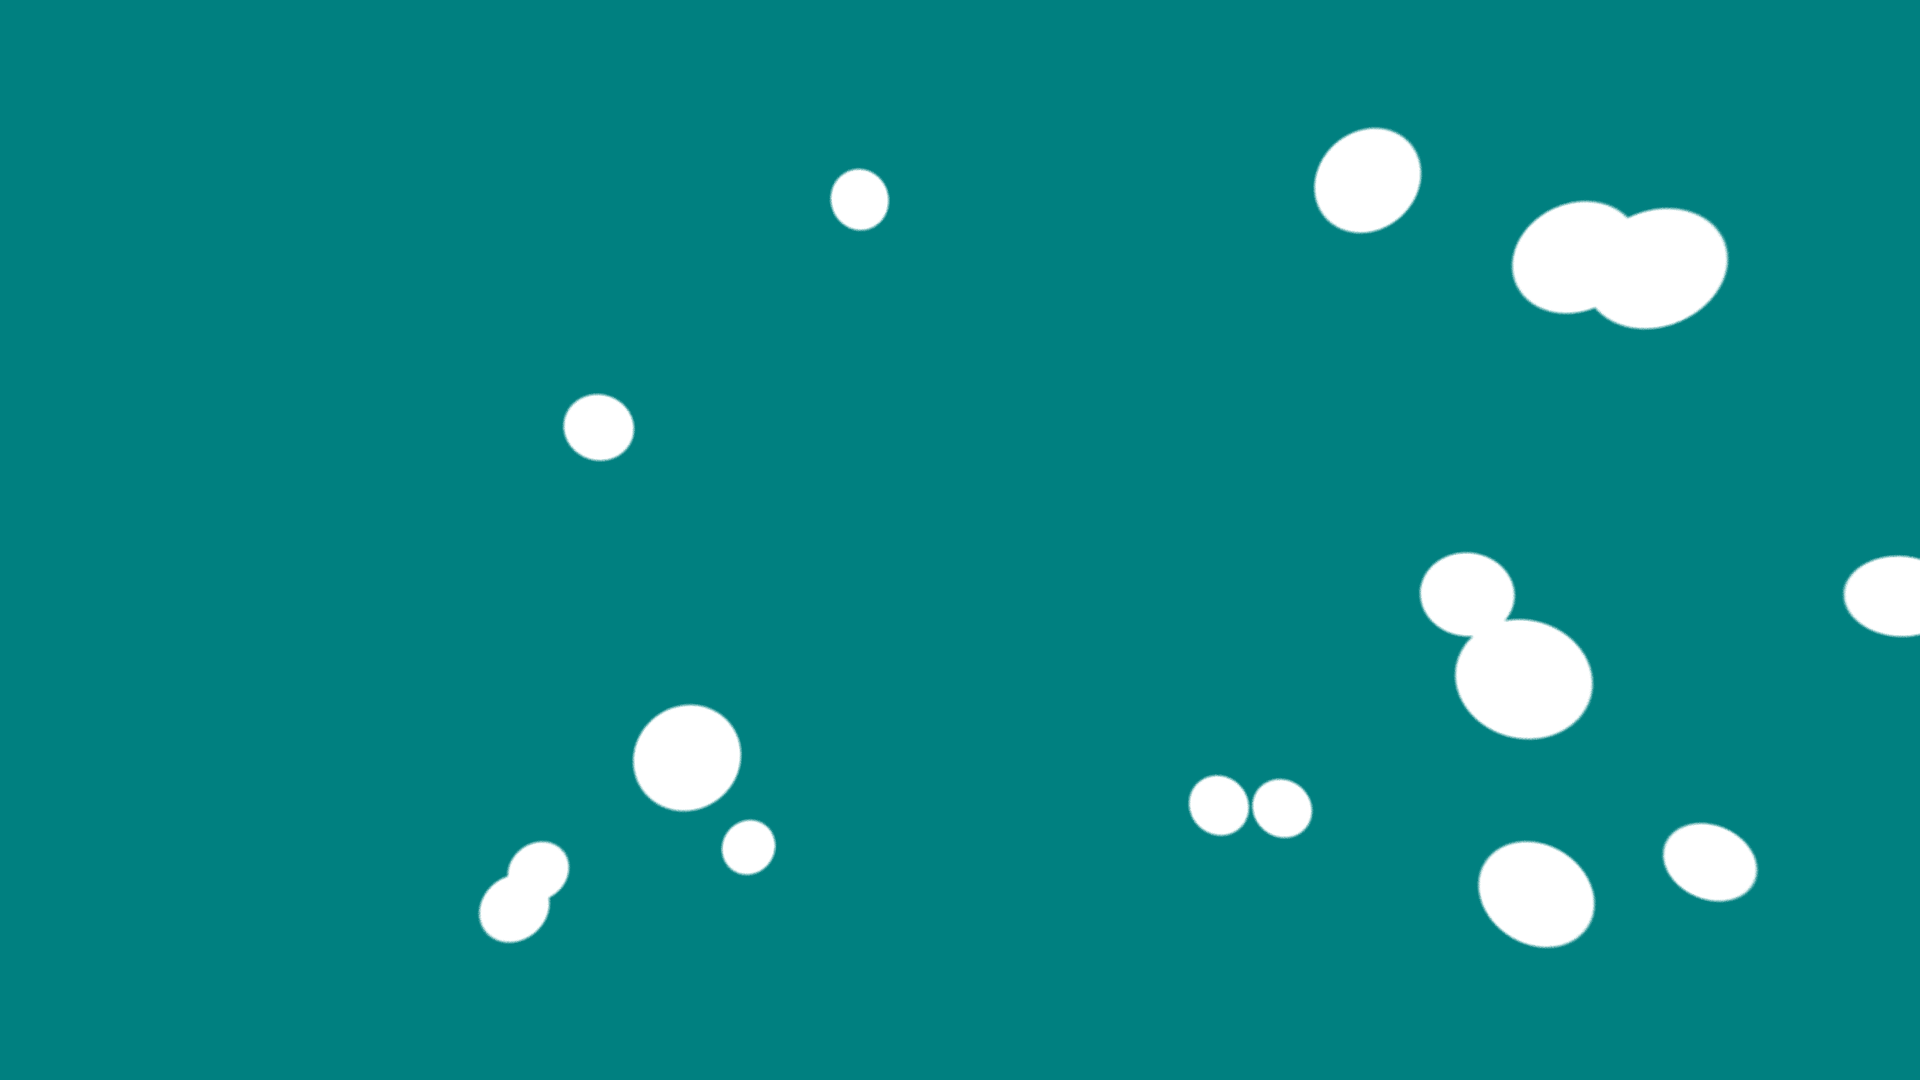
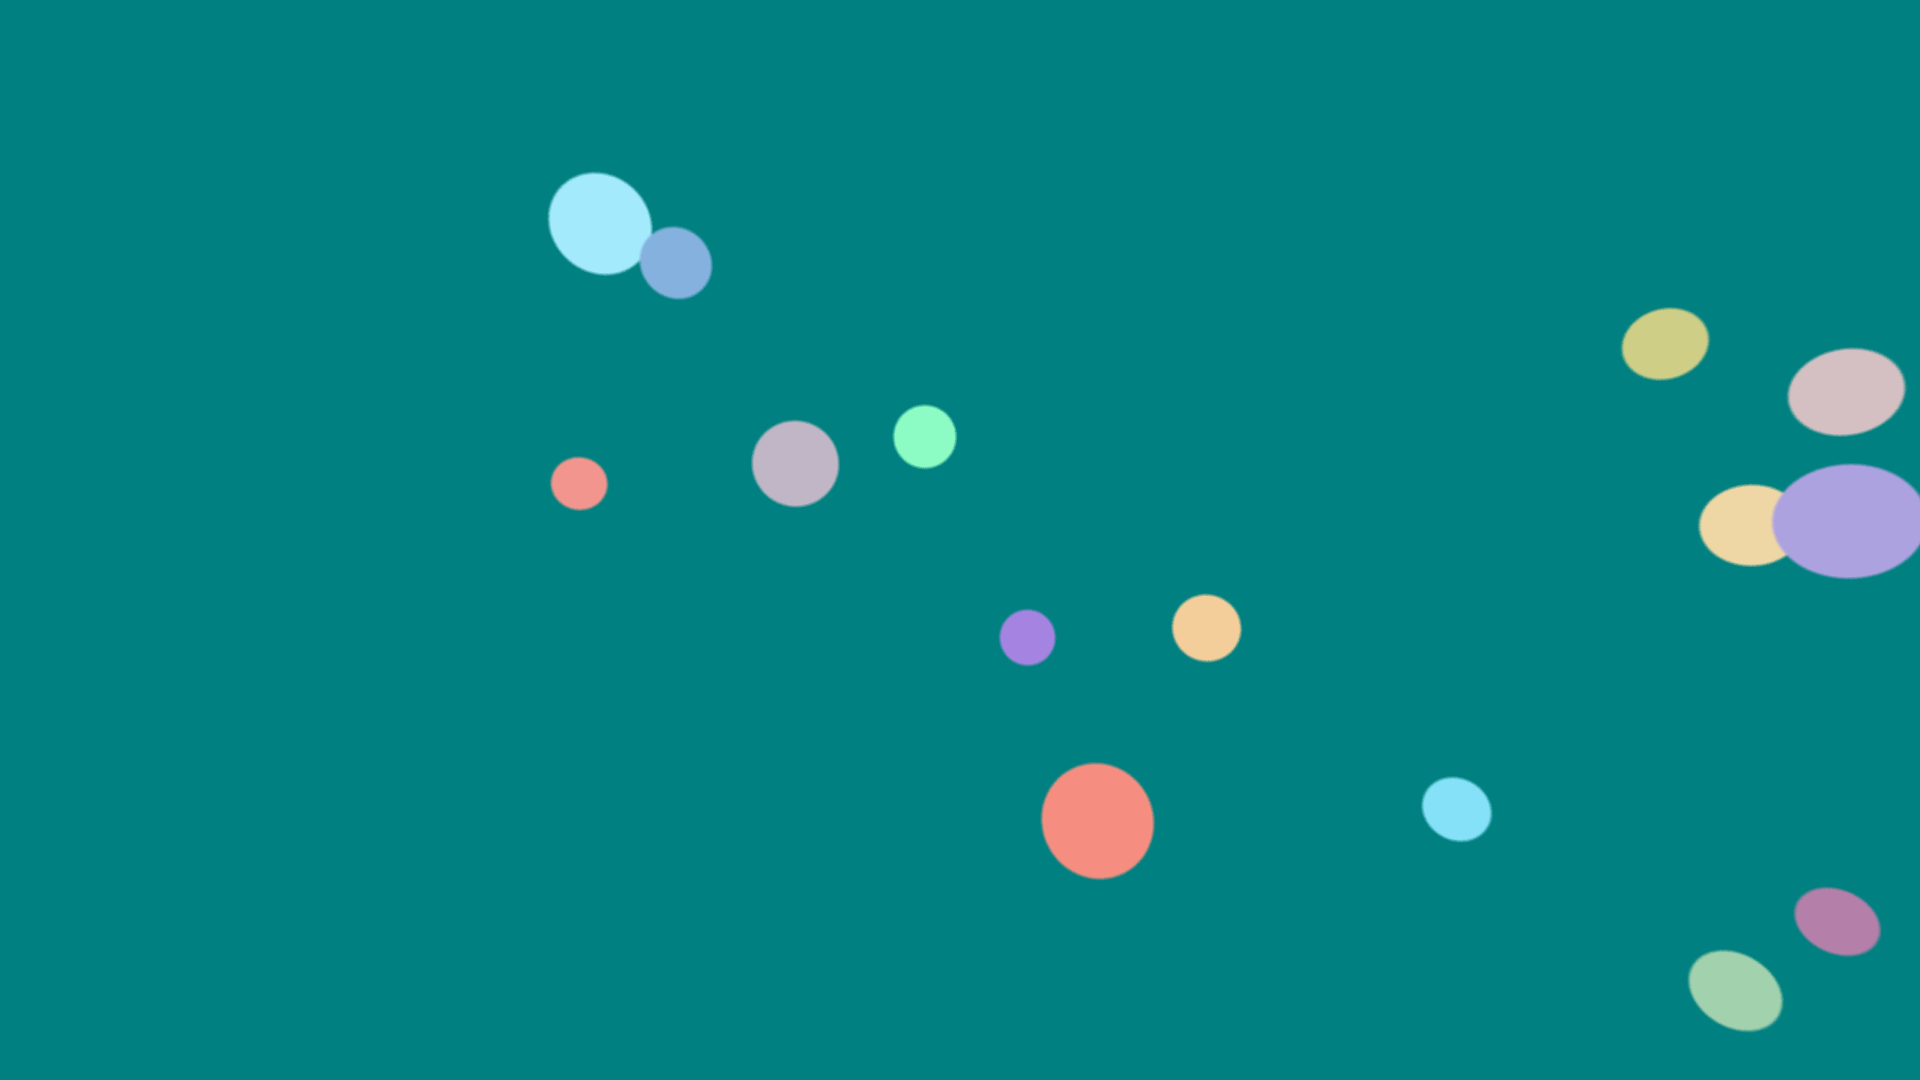
Depth priority

diff --git a/Archer/scene.py b/Archer/scene.py
@@ -22,11 +22,16 @@ class Scene:
                 for pidx in range(rpp):
                     ray = camera.get_ray(vec2(x, y))
                     intersect = False
+                    intersect_depth = 0
+                    intersect_color = Color(0, 0, 0)
                     for obj in range(n_objects):
-                        if bool(objects[obj].intersect(ray)):
+                        i = objects[obj].intersect(ray)
+                        if bool(i):
                             intersect = True
-                            break
-                    color = ti.Vector([255, 255, 255]) * intersect + sky_multiplier * (1 - intersect)
+                            if intersect_depth > i or intersect_depth == 0:
+                                intersect_depth = i
+                                intersect_color = objects[obj].color
+                    color = ti.Vector([intersect_color.r, intersect_color.g, intersect_color.b]) * intersect + sky_multiplier * (1 - intersect)
                     
                     _sumr += color[0]
                     _sumg += color[1]

diff --git a/Archer/models/sphere.py b/Archer/models/sphere.py
@@ -1,10 +1,11 @@
 import taichi as ti
-from vectors import Ray, vec3
+from vectors import Ray, Color, vec3
 
 @ti.dataclass
 class Sphere:
     center: vec3
     radius: ti.f32
+    color: Color
 
     @ti.func
     def intersect(self, ray: Ray) -> ti.f32:
@@ -13,4 +14,5 @@ class Sphere:
         b = 2.0 * ti.math.dot(oc, ray.direction)
         c = ti.math.dot(oc, oc) - self.radius * self.radius
         d = b * b - 4 * a * c
-        return d >= 0
+        solution = -b - ti.sqrt(d) / (2.0 * a)
+        return solution * d >= 0

diff --git a/Archer/main.py b/Archer/main.py
@@ -16,6 +16,11 @@ spheres = Sphere.field(shape=n)
 
 for i in range(n):
     spheres[i].center = vec3(random() * 16 - 5, random() * 9 - 5, -10 + random() * 2)
+    spheres[i].color = Color(
+        (random() + 1) / 2 * 255,
+        (random() + 1) / 2 * 255,
+        (random() + 1) / 2 * 255
+    )
     spheres[i].radius = (random() + 1) / 4
 
 scene = Scene(
